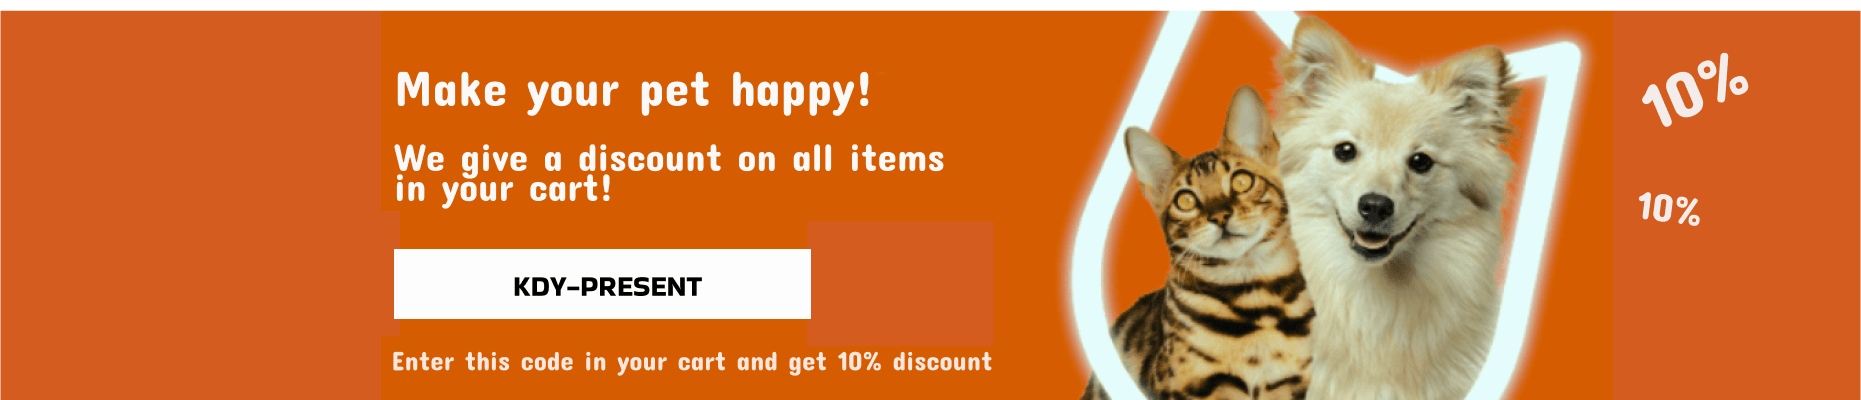
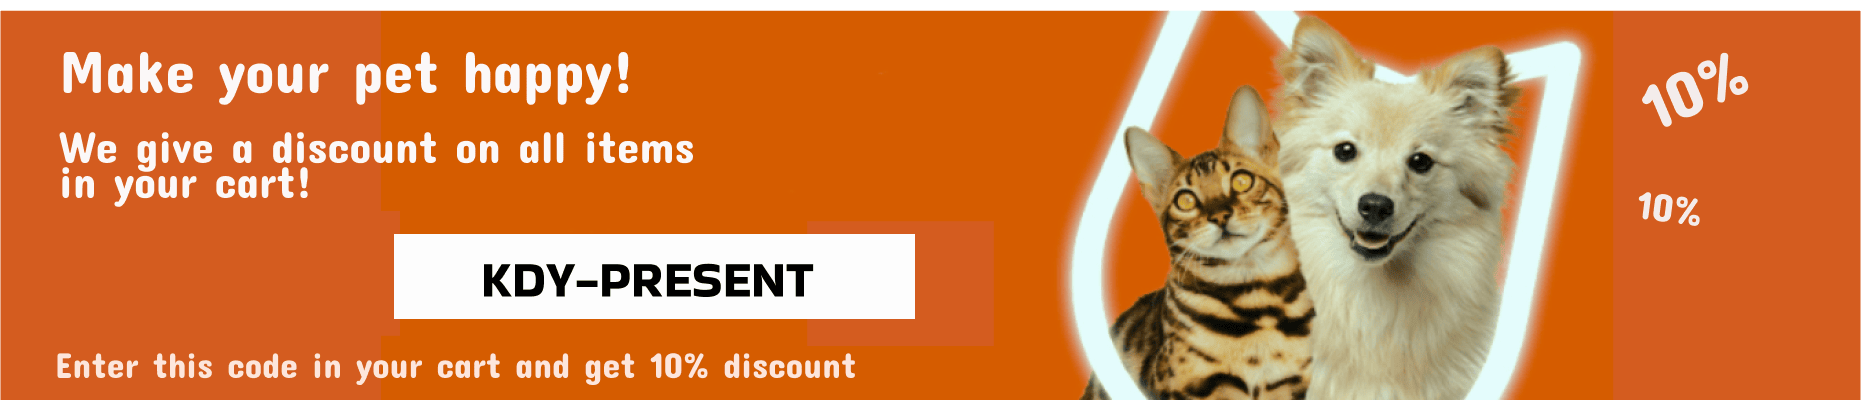
feat: update styles

diff --git a/src/pages/main/DiscountBannersList.tsx b/src/pages/main/DiscountBannersList.tsx
@@ -1,3 +1,4 @@
+import { Typography, Box } from '@mui/material';
 import FullWidthImage from './FullWidthImage';
 import bannerCode10Perсent from '/src/assets/banners/banner-code1.png';
 import bannerCode10Euro from '/src/assets/banners/banner-code2.png';
@@ -16,13 +17,26 @@ const banners = [
 export const DiscountBannersList: React.FC = () => {
   return (
     <>
-      {banners.map((banner) => (
-        <FullWidthImage
-          key={banner.alt}
-          src={banner.src}
-          alt={banner.alt}
-        />
-      ))}
+      <Typography
+        variant="h5"
+        sx={{
+          mb: '25px',
+          fontSize: '27px',
+          '@media (max-width: 900px)': { marginBottom: '15px', fontSize: '25px' },
+          '@media (max-width: 600px)': { marginBottom: '10px', fontSize: '20px' },
+        }}
+      >
+        Our offers and discounts:
+      </Typography>
+      <Box>
+        {banners.map((banner) => (
+          <FullWidthImage
+            key={banner.alt}
+            src={banner.src}
+            alt={banner.alt}
+          />
+        ))}
+      </Box>
     </>
   );
 };

diff --git a/src/pages/main/FullWidthImage.tsx b/src/pages/main/FullWidthImage.tsx
@@ -10,9 +10,9 @@ const FullWidthImage: React.FC<FullWidthImageProps> = ({ src, alt }) => {
   return (
     <ImageListItem
       sx={{
-        marginBottom: '25px',
-        '@media (max-width: 900px)': { marginBottom: '10px' },
-        '@media (max-width: 600px)': { marginBottom: '8px' },
+        marginBottom: '30px',
+        '@media (max-width: 900px)': { marginBottom: '20px' },
+        '@media (max-width: 600px)': { marginBottom: '10px' },
       }}
     >
       <img

diff --git a/src/pages/main/Greeting.tsx b/src/pages/main/Greeting.tsx
@@ -13,9 +13,9 @@ export const Greeting: React.FC = () => {
   return (
     <>
       {customer ? (
-        <Typography sx={styleTitle}>Welcome {customer.firstName} to our pet store!</Typography>
+        <Typography sx={styleTitle}>Welcome {customer.firstName} to PetJoy store!</Typography>
       ) : (
-        <Typography sx={styleTitle}>Welcome to our pet store!</Typography>
+        <Typography sx={styleTitle}>Welcome to PetJoy store!</Typography>
       )}
     </>
   );

diff --git a/src/pages/main/MainPage.tsx b/src/pages/main/MainPage.tsx
@@ -2,14 +2,12 @@ import { Container } from '@mui/material';
 import { Greeting } from './Greeting';
 import { PagesButtons } from './PagesButtons';
 import { DiscountBannersList } from './DiscountBannersList';
-import { DiscountCodes } from './DiscountCodes';
 
 export const MainPage: React.FC = () => {
   return (
     <Container>
       <Greeting />
       <PagesButtons />
-      <DiscountCodes />
       <DiscountBannersList />
     </Container>
   );
